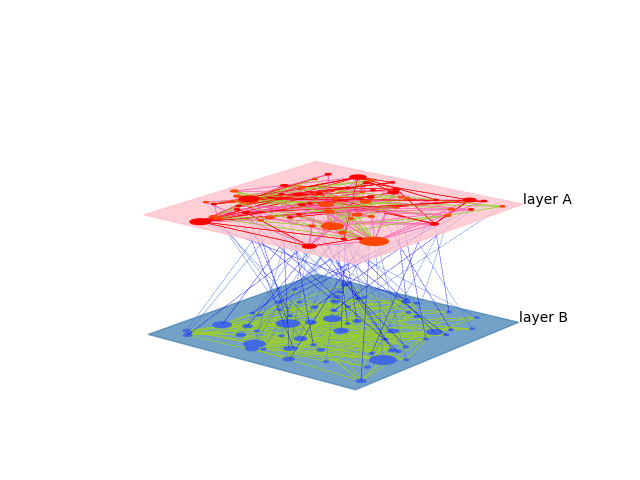
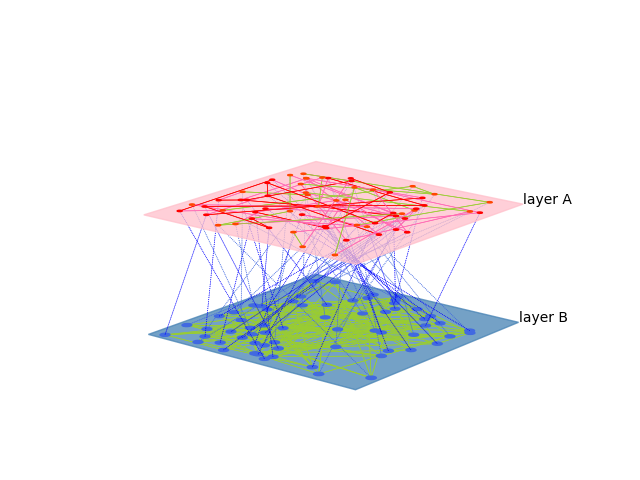
periodic updating

Changed region(s): [[0.25, 0.3438, 0.7812, 0.8125]]

diff --git a/InterconnectedNetworkVisualization.py b/InterconnectedNetworkVisualization.py
@@ -97,17 +97,17 @@ class InterconnectedNetworkVisualization:
              layershape='rectangle',
              nodeCoords=inter_layer.node_location,
              nodelayerCoords={},
-             layerPadding=0.03, alignedNodes=True, ax=ax, layerColorDict={'layer A': 'pink', 'layer B': 'steelblue'},
+             layerPadding=0.02, alignedNodes=True, ax=ax, layerColorDict={'layer A': 'pink', 'layer B': 'steelblue'},
              layerColorRule={},
              edgeColorDict=InterconnectedNetworkVisualization.making_edge_color(setting, inter_layer),
              edgeColorRule={},
-             edgeWidthDict={}, edgeWidthRule={}, defaultEdgeWidth=0.4, edgeStyleDict={},
+             edgeWidthDict={}, edgeWidthRule={}, defaultEdgeWidth=0.5, edgeStyleDict={},
              edgeStyleRule={'rule': 'edgetype', 'inter': ':', 'intra': '-'}, defaultEdgeStyle='-',
              nodeLabelDict={}, nodeLabelRule={}, defaultNodeLabel=None,
              nodeColorDict=InterconnectedNetworkVisualization.making_node_color(setting, inter_layer), nodeColorRule={},
              defaultNodeColor=None,
              nodeLabelColorDict={}, nodeLabelColorRule={}, defaultNodeLabelColor='k',
-             nodeSizeDict={}, nodeSizeRule={"propscale": 0.05, 'rule': 'degree'}, defaultNodeSize=None)
+             nodeSizeDict={}, nodeSizeRule={"propscale": 0.07, 'rule': 'degree'}, defaultNodeSize=None)
         plt.savefig(save_file_name)
         im = plt.imshow(plt.imread(save_file_name), animated=True)
         return im
@@ -117,9 +117,14 @@ class InterconnectedNetworkVisualization:
 if __name__ == "__main__":
     print("Interconnected Layer Modeling")
     setting = SettingSimulationValue.SettingSimulationValue()
+    setting.A_node = 64
+    setting.B_node = 64
+    setting.Structure = 'RR-RR'
+    setting.A_edge = 2
+    setting.B_edge = 5
     inter_layer = InterconnectedLayerModeling.InterconnectedLayerModeling(setting)
-    # InterconnectedNetworkVisualization.draw_interconnected_network(setting, inter_layer, 'result.png')
-    InterconnectedNetworkVisualization.making_competition_movie(setting, inter_layer, 0.1, 0.1, 'result.png',
-                                                                using_prob=None, unchanged_nodes=None)
+    InterconnectedNetworkVisualization.draw_interconnected_network(setting, inter_layer, 'result.png')
+    # InterconnectedNetworkVisualization.making_competition_movie(setting, inter_layer, 0.1, 0.1, 'result.png',
+    #                                                             using_prob=None, unchanged_nodes=None)
     plt.show()
     print("Operating finished")

diff --git a/InterconnectedLayerModeling.py b/InterconnectedLayerModeling.py
@@ -99,7 +99,9 @@ class InterconnectedLayerModeling:
     def select_layer_A_model(setting):
         A_edges = []
         if setting.Structure.split('-')[0] == 'RR':
-            A_edges = sorted(nx.random_regular_graph(setting.A_edge, setting.A_node, seed=None).edges)
+            a_edges = sorted(nx.random_regular_graph(setting.A_edge, setting.A_node, seed=None).edges)
+            for i in range(len(a_edges)):
+                A_edges.append(tuple(np.array(a_edges[i][0:2])))
         elif setting.Structure.split('-')[0] == 'BA':
             A_edges = sorted(nx.barabasi_albert_graph(setting.A_node, setting.A_edge, seed=None).edges)
         return A_edges
@@ -110,7 +112,7 @@ class InterconnectedLayerModeling:
         if setting.Structure.split('-')[1] == 'RR':
             b_edges = sorted(nx.random_regular_graph(setting.B_edge, setting.B_node, seed=None).edges)
             for i in range(len(b_edges)):
-                B_edges.append(tuple(np.array(b_edges[i]) + setting.A_node))
+                B_edges.append(tuple(np.array(b_edges[i][0:2]) + setting.A_node))
         elif setting.Structure.split('-')[1] == 'BA':
             b_edges = sorted(nx.barabasi_albert_graph(setting.B_node, setting.B_edge, seed=None).edges)
             for i in range(len(b_edges)):
@@ -125,9 +127,11 @@ class InterconnectedLayerModeling:
 if __name__ == "__main__":
     print("interconnectedlayer")
     setting = SettingSimulationValue.SettingSimulationValue()
+    setting.Structure = 'RR-RR'
     start = time.time()
-    inter_layer = InterconnectedLayerModeling(setting)
-    print(inter_layer.edges_on_B)
+    print(InterconnectedLayerModeling.select_layer_A_model(setting))
+    # inter_layer = InterconnectedLayerModeling(setting)
+    # print(inter_layer.edges_on_B)
     end = time.time()
     print(end - start)
     # print(inter_layer.two_layer_graph.nodes[1]['state'])

diff --git a/Visualization.py b/Visualization.py
@@ -197,6 +197,13 @@ class Visualization:
                         # plt.annotate('branch point', xy=(1, 0.9), arrowprops=dict(arrowstyle="->"))
 
                 elif order is False:
+                    if keynode_method is False and keyedge_method is False:
+                        orders = pv_df['Orders'].unique()
+                        for ordering in orders:
+                            pv_df3 = pv_df[pv_df.Orders == ordering]
+                            pv_df4 = pv_df3[pv_df3.keynode_method == '0']
+                            pv_df4 = pv_df4.sort_values(by='Steps', ascending=True)
+                            plt.plot(pv_df4[x_list[x_index]], pv_df4[y_list[y_index]], linewidth=0.5)
                     if keynode_method is True:
                         pv_df3 = pv_df[pv_df.select_node_layer == select_node_layer]
                         key_methods = pv_df3['keynode_method'].unique()
@@ -366,7 +373,7 @@ if __name__ == "__main__":
     #                   keynode_method=False, select_layer='A_layer', keynode_number=(False, 1),
     #                   keyedge_method=False, select_edge_layer='A_mixed', keyedge_number=(False, 1), steps_timeflow=100,
     #                   steps_hist=100)
-    visualization.run(setting, plot_type='timeflow', p_value_list=None, v_value_list=None, y_axis=0, steps_2d=100,
+    visualization.run(setting, plot_type='timeflow', p_value_list=(0, 1), v_value_list=(0, 1), y_axis=0, steps_2d=100,
                       chart_type='scatter', steps_3d=100,
                       x_index=1, y_index=0, p_values=[0.2], v_values=[0.4], order=False,
                       keynode_method=True, select_layer='A_layer', keynode_number=(True, 1),

diff --git a/ChangingVariable.py b/ChangingVariable.py
@@ -101,6 +101,6 @@ if __name__ == "__main__":
     print("Changing_Variable")
     settings = SettingSimulationValue.SettingSimulationValue()
     ChangingVariable(settings, p=[0.2], v=[0.4], gap=1, select_using_prob=[False], steps=[1],
-                     select_node_layers=[0], select_node_methods=[1, 4], node_numbers=[1, 100], unchanged_state='pos',
+                     select_node_layers=[0], select_node_methods=[1, 4], node_numbers=[101, 200], unchanged_state='pos',
                      select_edge_layers=[0], select_edge_methods=[0], edge_numbers=[0, 0])
     print("Operating end")
